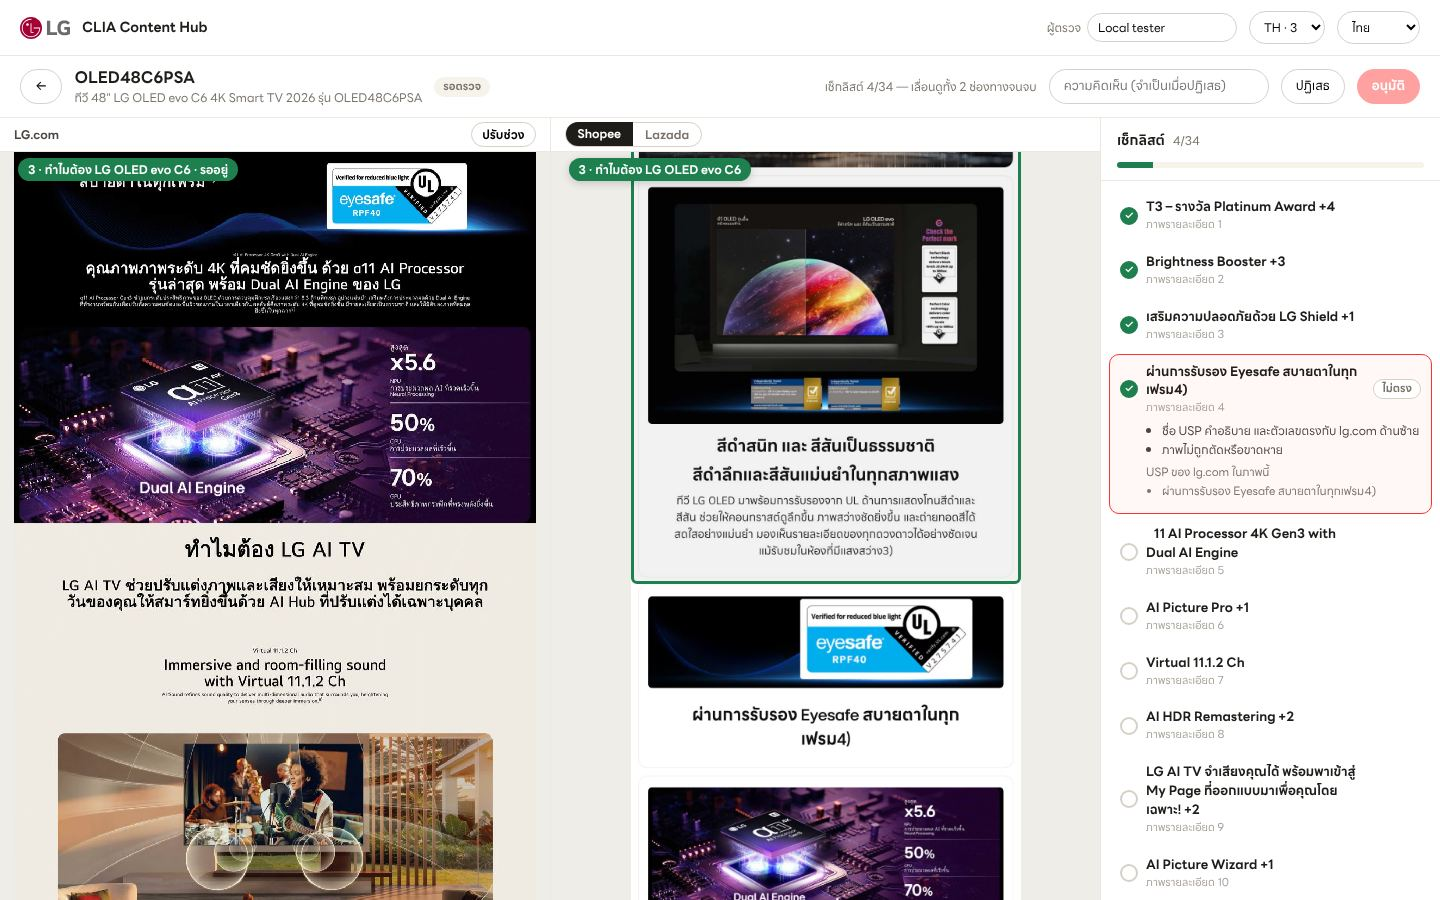
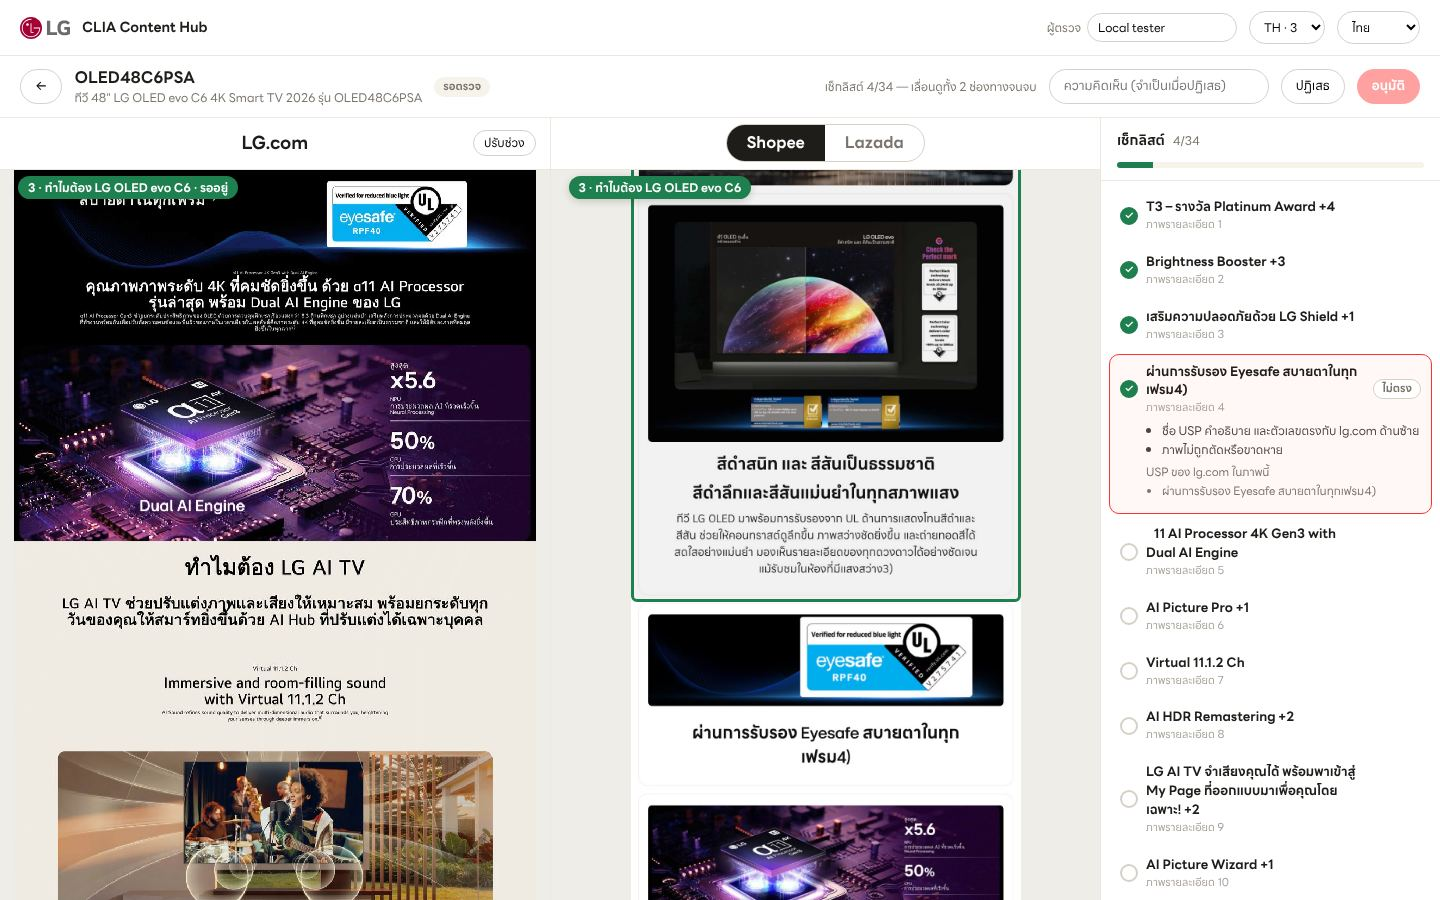
검토 화면: 패널 제목(LG.com · Shopee/Lazada 토글)을 크게, 가운데로
Claude-Session: https://claude.ai/code/session_01Qc8KZ9fFX6kBVHrq9Tv6ME

Changed region(s): [[0.0, 0.1244, 0.7188, 1.0]]

diff --git a/review/index.html b/review/index.html
@@ -68,7 +68,7 @@ td .m,.cb .m{font-weight:700}td .s{font-size:12px;color:var(--g500);max-width:42
 .selbar{display:none;gap:8px;align-items:center;font-size:13px;color:var(--g700)}.selbar.on{display:flex}
 .chd .why{font-size:12px;color:var(--g500);max-width:280px;white-space:nowrap;overflow:hidden;text-overflow:ellipsis}
 .chd .cmt{width:220px;border:1px solid var(--g300);border-radius:999px;padding:7px 14px;font:inherit;font-size:13px}.chd .cmt.err{border-color:var(--bad)}
-.seg.sm button{padding:3px 12px;font-size:12px}
+
 /* 비교 */
 .chd{display:flex;align-items:center;gap:12px;padding:10px 20px;background:#fff;border-bottom:1px solid var(--line)}
 .chd .id .m{font-weight:700;font-size:16px}.chd .id .s{font-size:12px;color:var(--g500);max-width:460px;white-space:nowrap;overflow:hidden;text-overflow:ellipsis}
@@ -82,8 +82,11 @@ td .m,.cb .m{font-weight:700}td .s{font-size:12px;color:var(--g500);max-width:42
 #snaps{position:absolute;left:0;top:0;width:1px;pointer-events:none}#snaps i{position:absolute;left:0;width:1px;height:1px;scroll-snap-align:start}
 .stage{position:sticky;top:0;display:grid;grid-template-columns:minmax(0,1fr) minmax(0,1fr);gap:1px;background:var(--line)}
 .pane{display:flex;flex-direction:column;min-height:0;background:#EFEDE8}
-.ph{flex:none;min-height:34px;display:flex;align-items:center;gap:8px;padding:0 14px;font-size:12px;font-weight:700;color:var(--g700);background:#fff;border-bottom:1px solid var(--line)}
-.ph small{font-weight:400;color:var(--g400)}.ph .r{margin-left:auto;display:flex;gap:6px;align-items:center}.wait[hidden]{display:none}
+/* 패널 머리: 가운데 큰 제목(왼쪽 LG.com · 오른쪽 Shopee/Lazada 토글), 오른쪽 끝에 작은 버튼·경고 */
+.ph{flex:none;min-height:52px;display:grid;grid-template-columns:1fr auto 1fr;align-items:center;gap:8px;padding:0 14px;background:#fff;border-bottom:1px solid var(--line)}
+.ph .ttl{grid-column:2;font-size:18px;font-weight:700;color:var(--g900);letter-spacing:-.01em}
+.ph .r{grid-column:3;justify-self:end;display:flex;gap:6px;align-items:center}
+.seg.big button{padding:6px 20px;font-size:16px;font-weight:700}
 .crop-ed{display:flex;gap:6px;align-items:center;flex-wrap:wrap;padding:6px 14px;background:#fff;border-bottom:1px solid var(--line);font-size:12px;font-weight:400}.crop-ed[hidden]{display:none}
 .crop-ed input{width:74px;border:1px solid var(--g300);border-radius:6px;padding:3px 6px;font:inherit;font-size:12px}
 .vp{flex:1;min-height:0;overflow:hidden;position:relative}
@@ -158,12 +161,12 @@ aside{display:flex;flex-direction:column;min-height:0;background:#fff;border-lef
  <div class="main">
   <div class="sc" id="sc">
    <div class="stage" id="stage">
-    <section class="pane"><div class="ph"><span>LG.com</span><span class="r"><span class="badge b-warn" id="cropWarn" hidden></span><button class="btn sm" id="cropBtn" onclick="toggleCrop()" data-t="cropBtn"></button></span></div>
+    <section class="pane"><div class="ph"><span class="ttl">LG.com</span><span class="r"><span class="badge b-warn" id="cropWarn" hidden></span><button class="btn sm" id="cropBtn" onclick="toggleCrop()" data-t="cropBtn"></button></span></div>
      <div class="crop-ed" id="cropEd" hidden><span data-t="cropTop"></span><button class="btn sm" onclick="nudge('top',-100)">−100</button><button class="btn sm" onclick="nudge('top',-10)">−10</button><input id="cTop" type="number" onchange="cropInput()"><button class="btn sm" onclick="nudge('top',10)">+10</button><button class="btn sm" onclick="nudge('top',100)">+100</button>
       <span data-t="cropBottom" style="margin-left:8px"></span><button class="btn sm" onclick="nudge('bottom',-100)">−100</button><button class="btn sm" onclick="nudge('bottom',-10)">−10</button><input id="cBot" type="number" onchange="cropInput()"><button class="btn sm" onclick="nudge('bottom',10)">+10</button><button class="btn sm" onclick="nudge('bottom',100)">+100</button>
       <span class="sp" style="flex:1"></span><button class="btn sm" onclick="cropAuto()" data-t="cropAuto"></button><button class="btn sm" onclick="recapture()" data-t="recapture"></button><button class="btn sm pri" onclick="cropSave()" data-t="cropSave"></button></div>
      <div class="vp" id="vpL"><div class="mv" id="mvL"></div><div class="segbox" id="segL" hidden></div><span class="segtag" id="segTagL"></span></div></section>
-    <section class="pane"><div class="ph"><div class="seg sm" id="chSeg"><button data-c="shopee" onclick="setCh('shopee')">Shopee</button><button data-c="lazada" onclick="setCh('lazada')">Lazada</button></div><span class="r"><span class="badge b-warn" id="imgWarn" hidden></span></span></div><div class="vp" id="vpR"><div class="mv" id="mvR"></div><div class="segbox" id="segR" hidden></div><span class="segtag" id="segTagR"></span></div></section>
+    <section class="pane"><div class="ph"><div class="seg big ttl" id="chSeg"><button data-c="shopee" onclick="setCh('shopee')">Shopee</button><button data-c="lazada" onclick="setCh('lazada')">Lazada</button></div><span class="r"><span class="badge b-warn" id="imgWarn" hidden></span></span></div><div class="vp" id="vpR"><div class="mv" id="mvR"></div><div class="segbox" id="segR" hidden></div><span class="segtag" id="segTagR"></span></div></section>
    </div>
    <div id="spacer"></div><div id="snaps"></div>
    <div class="prep" id="prep"><div class="box" id="prepBox"></div></div>
